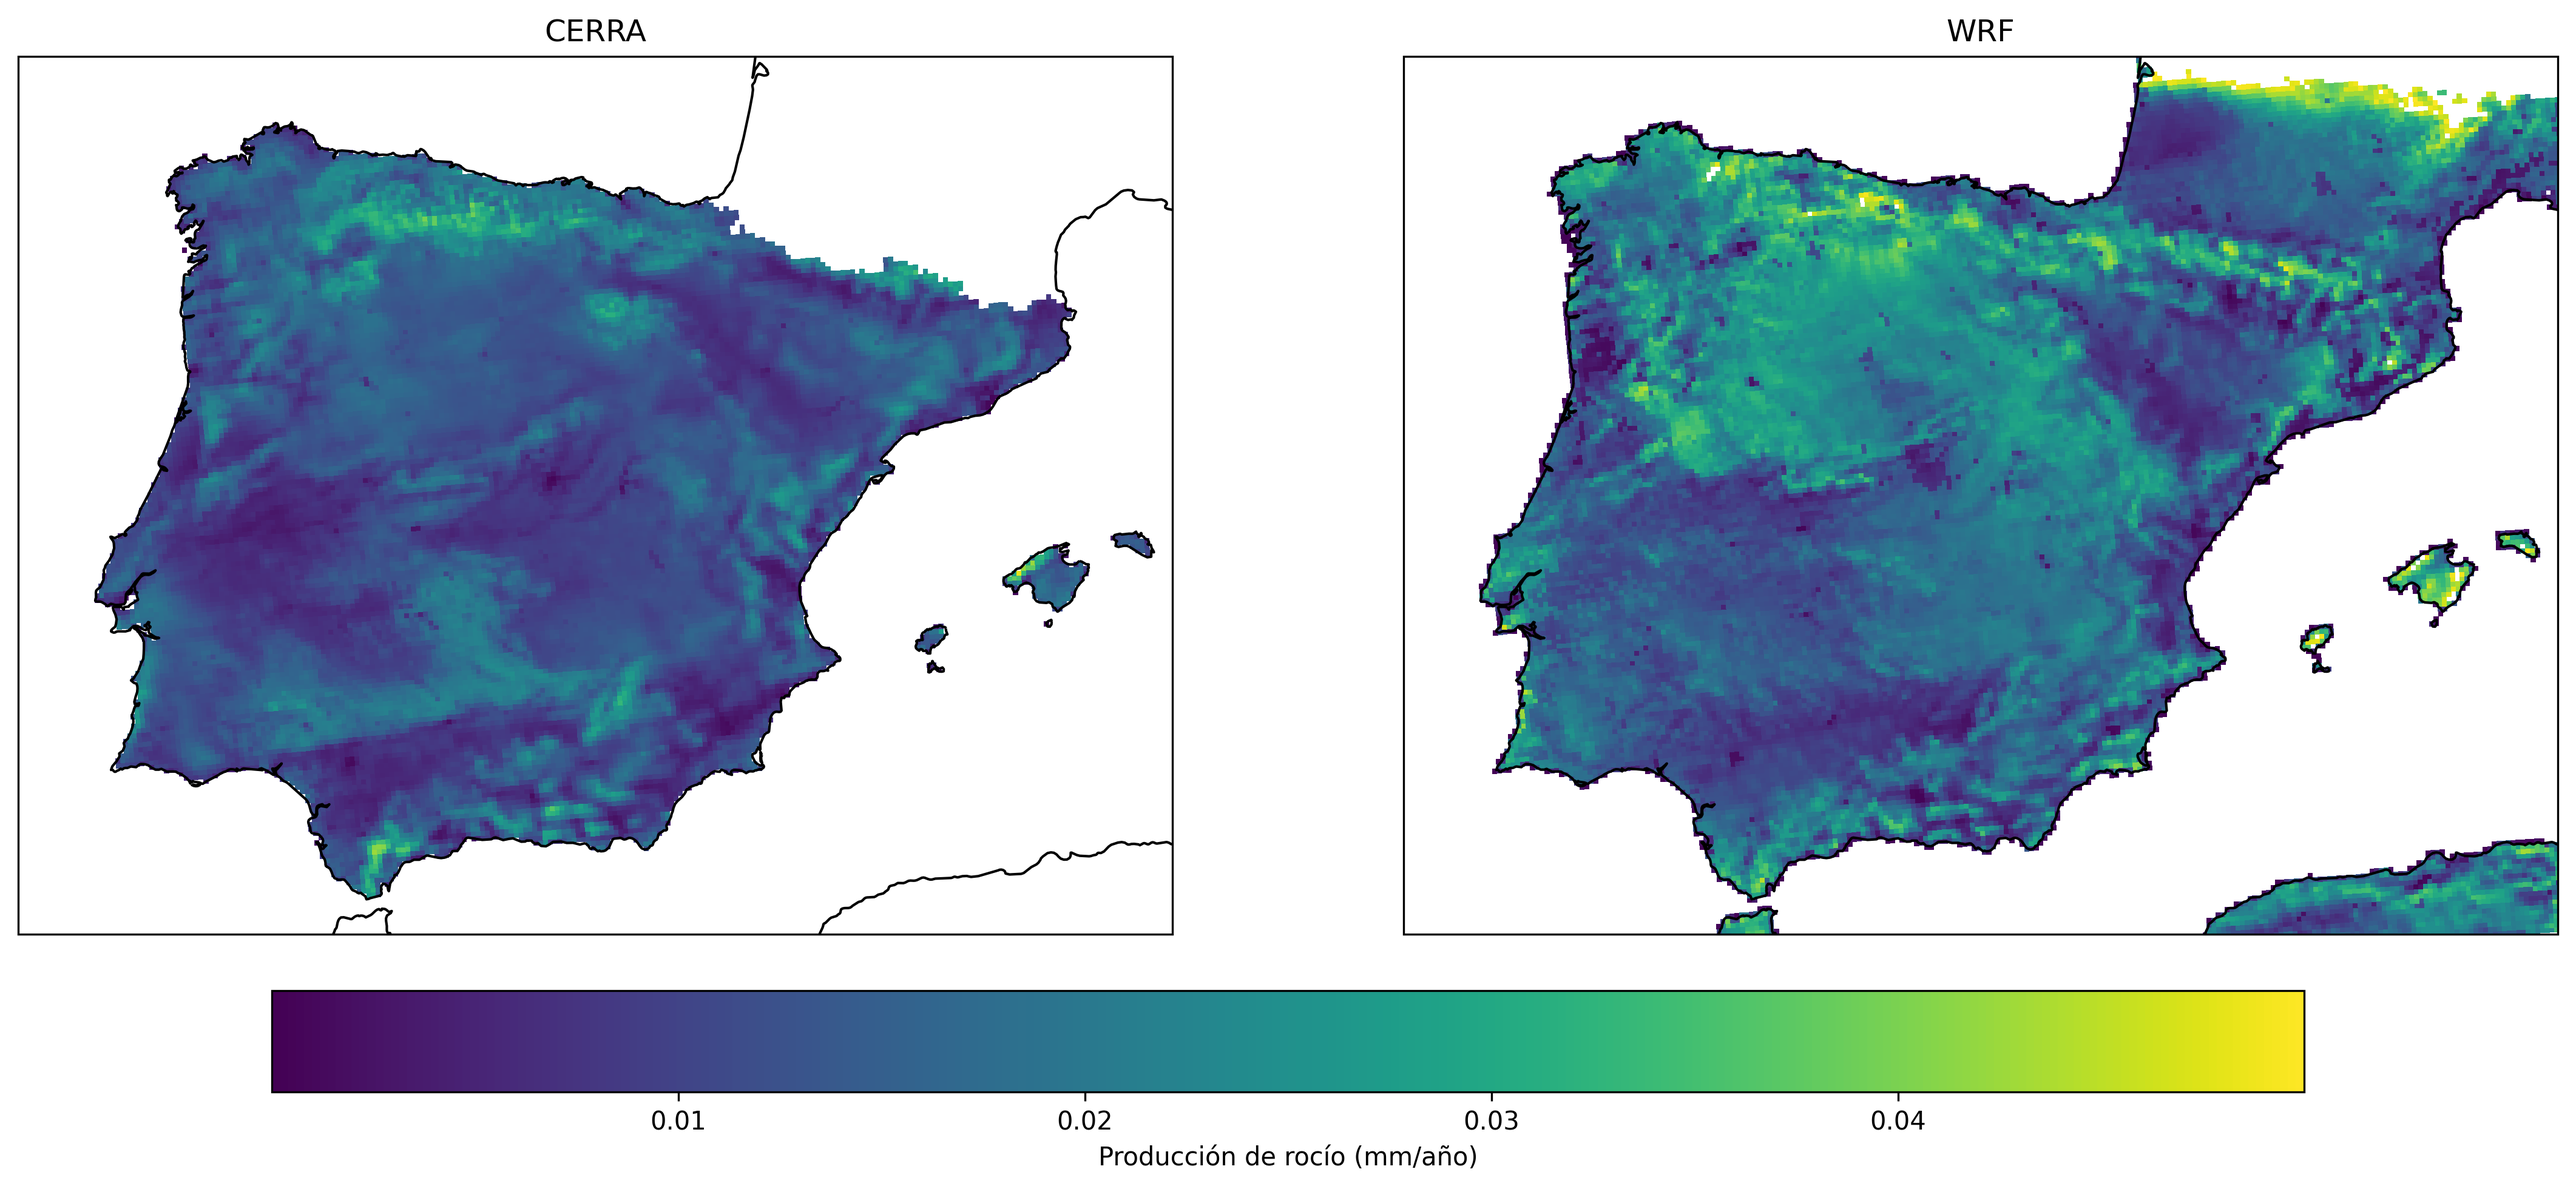
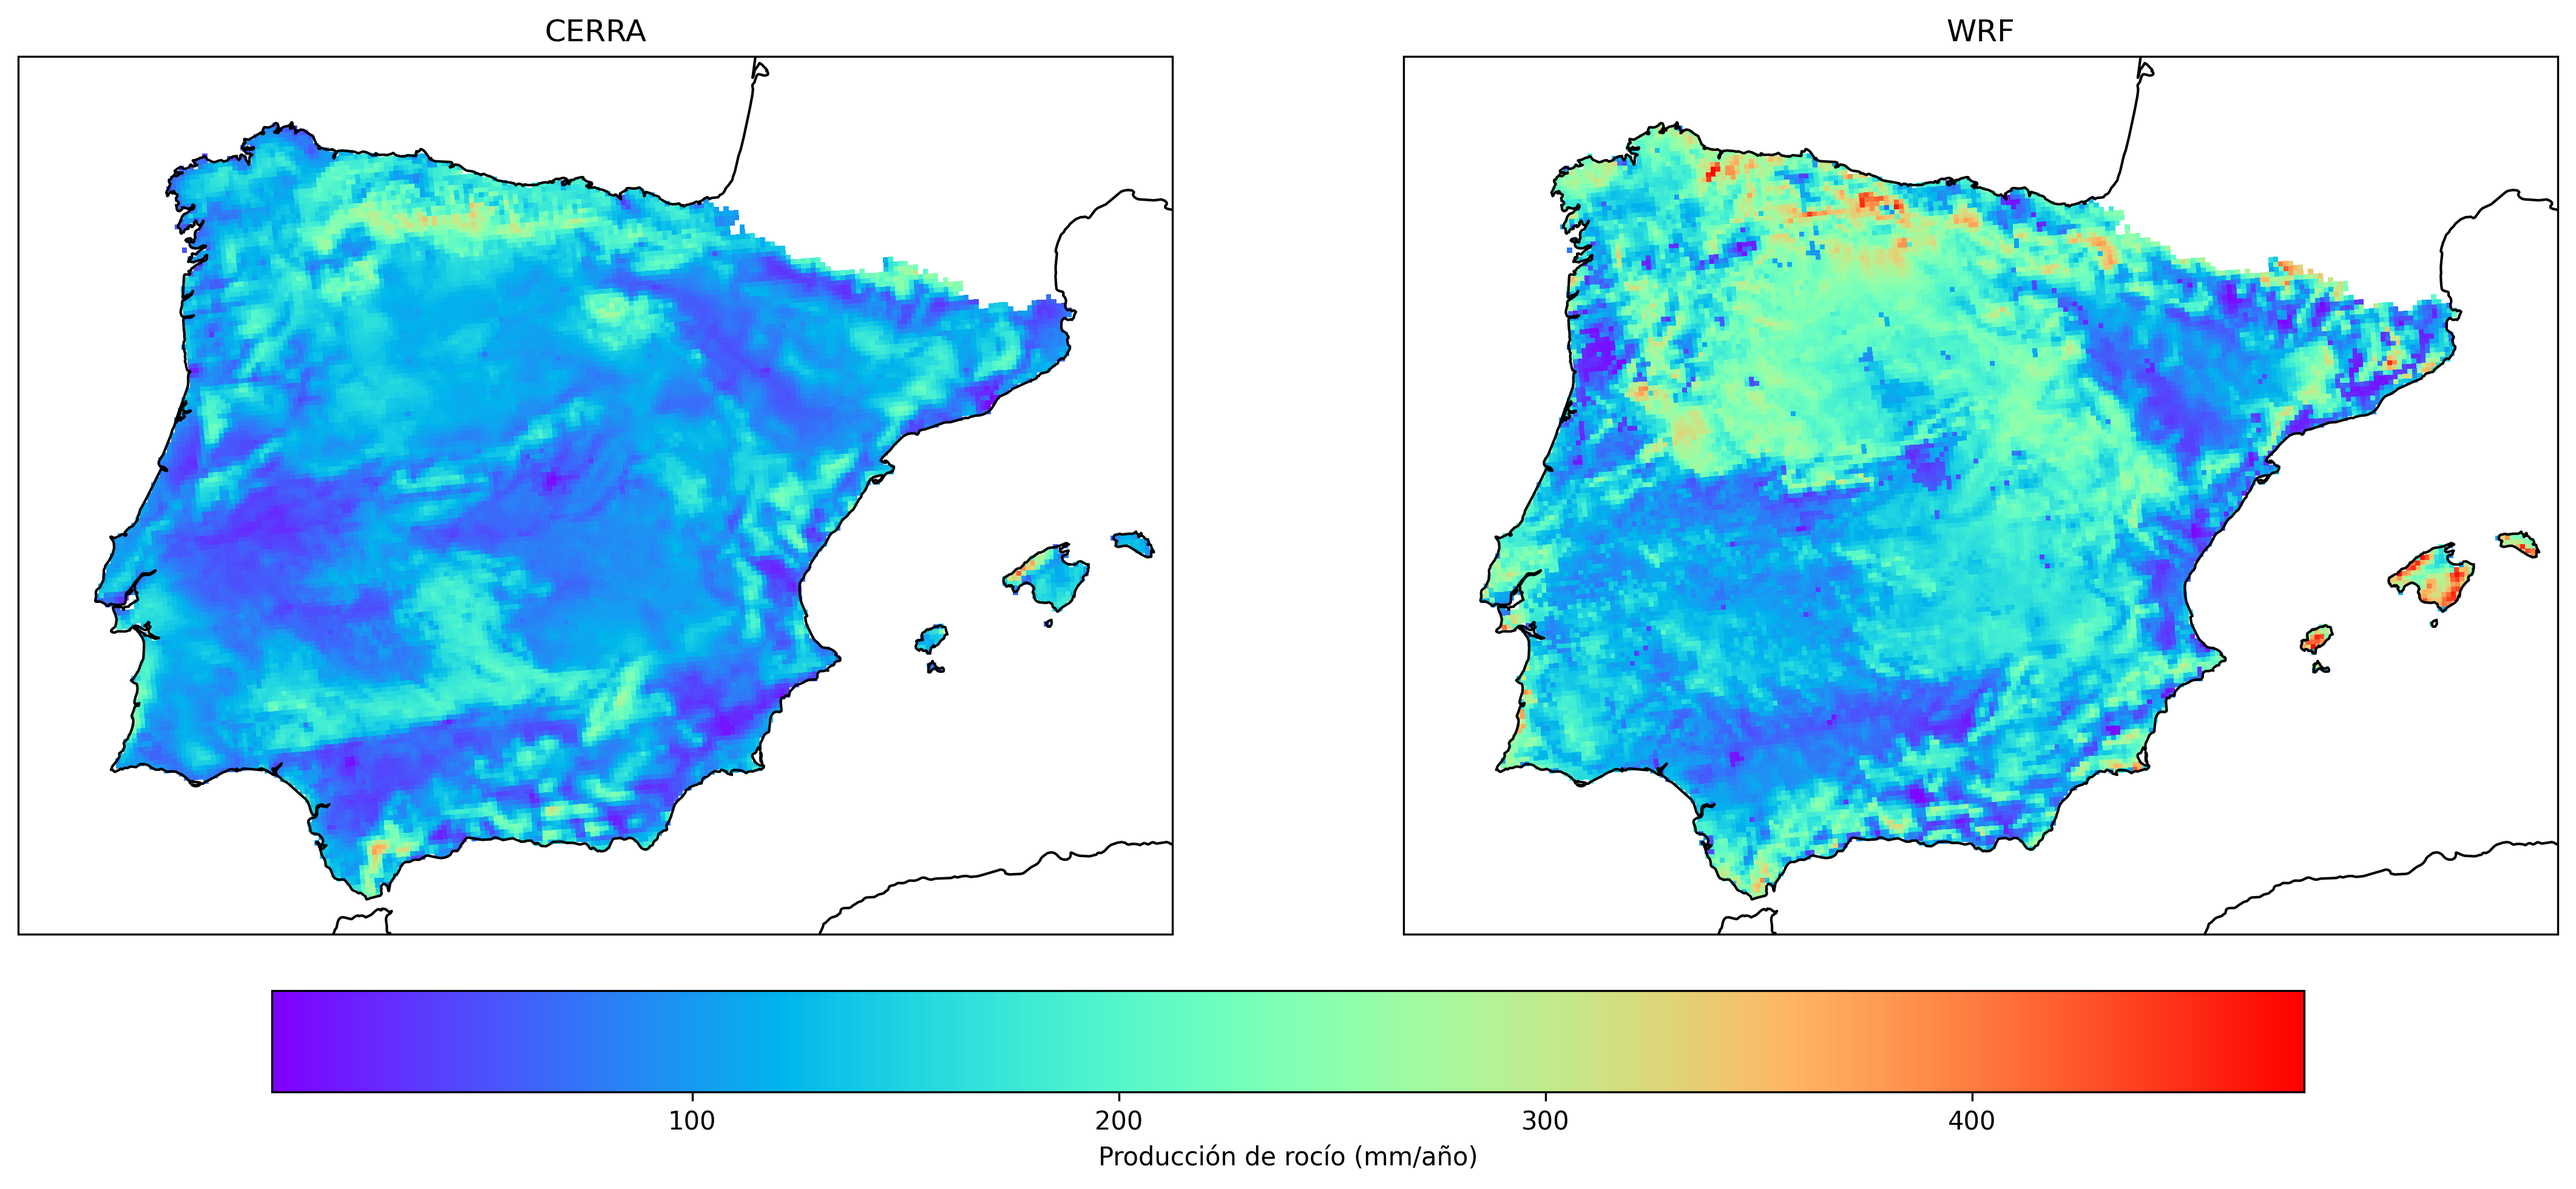
evaluation results

diff --git a/scripts/comp_test_mats.py b/scripts/comp_test_mats.py
@@ -61,52 +61,43 @@ cerraf=xr.open_dataset(fn)
 lons=cerraf.coords['longitude'].values
 lats=cerraf.coords['latitude'].values
 cerraf.close()
-
+lons=lons.transpose()
+lats=lats.transpose()
 #por si no está aplicada la máscara de tierra, la cargamos también
 land_mask = np.load("scripts\\data\\PI_landmask.npy") #cargamos la máscara de tierra
-land_mask = land_mask.transpose()  # Transponemos para que coincida con las dimensiones de latitudes y longitudes
-
-#Rutas y datos de los archivos a usar en el script
-fn1='scripts\\data\\CERRA\\CERRA_tcc_total.nc'
-fn2='scripts\\data\\WRF\\Evaluation\\cloudfrac_daymean_regrid.nc'
-selname1='tcc'
-selname2='CLDFRA'
 
 land_mask_apply=True #True para aplicar, False para no
 
 #nombres de los archivos de figuras y sus títulos y leyendas
-label_comp='Cobertura de nubes (Octas)' #leyenda comparación lado a lado
-title_comp='Media de la cobertura de nubes entre 1991 y 2020' #título comparación lado a lado
-out_name_comp='figures\\CERRA_WRF_tcc.png' #nombre del archivo de comparación
+label_comp='Producción de rocío (mm/año)' #leyenda comparación lado a lado
+title_comp='Media de la producción de rocío entre 1991 y 2020' #título comparación lado a lado
+out_name_comp='figures\\CERRA_WRF_dy.png' #nombre del archivo de comparación
 title1='CERRA' #título del primer gráfico
 title2='WRF' #título del segundo gráfico
 
-out_name_dif='CERRA_WRF_tcc_diff.png' #nombre del archivo de diferencias relativas
-out_name_pv='figures\\p_value_tcc.png' #nombre del archivo de p-value
+out_name_dif='CERRA_WRF_dy_diff_cut.png' #nombre del archivo de diferencias relativas
 
 #...........................PLOT DE COMPARACIÓN..........................
-#Cargamos los sets con datos diarios
-f1=xr.open_dataset(fn1)
-mod1=f1[selname1].values
-f1.close()
-f2=xr.open_dataset(fn2)
-mod2=f2[selname2].values
-f2.close()
-
-mod1=mod1*8/100
-mod2=mod2*8
-
-if land_mask_apply==True:
-    #Aplicamos la máscara de tierra a los datos
-    mod1 = mod1 * land_mask
-    mod2 = mod2 * land_mask
-
+f = h5py.File('scripts\\dewyield_results\\dewyield_CERRA_data.mat','r')
+data = f.get('daily_dewyield')
+mod1 = np.array(data)
+mod1=mod1*24*365
+f = h5py.File('scripts\\dewyield_results\\dewyield_WRF_Evaluation_data_regridded.mat','r')
+data = f.get('daily_dewyield')
+mod2 = np.array(data)
+mod2=mod2*24*365
 print('Datos cargados')
 
 #Realizamos las medias 
-mean1=np.nanmean(mod1, axis=0)
-mean2=np.nanmean(mod2, axis=0)
+if land_mask_apply==True:
+    mean1=np.nanmean(mod1, axis=2) * land_mask
+    mean2=np.nanmean(mod2, axis=2) * land_mask
+else:
+    mean1=np.nanmean(mod1, axis=2)
+    mean2=np.nanmean(mod2, axis=2)
 
+
+#mean2=np.where(mean2>600, np.nan, mean2)
 print('Medias calculadas')
 
 #Hacemos el plot
@@ -115,11 +106,11 @@ print('Plot de comparación realizado')
 #...........................................................................
 
 #...........................TEST U DE MANN WHITNEY..........................
-_, p_value = mannwhitneyu(mod1, mod2, alternative='two-sided', axis=0, nan_policy='omit')
+_, p_value = mannwhitneyu(mod1, mod2, alternative='two-sided', axis=2, nan_policy='omit')
 print('Test de Mann Whitney realizado')
 
 #Plot para revisar los valores de p-value en el mapa
-plot(lons, lats, p_value, 'p-value', 'viridis', out_name_pv)
+plot(lons, lats, p_value, 'p-value', 'viridis', 'figures\\p_value_dy.png')
 print('Plot de p-value realizado')
 
 #Realizamos una máscara para celdas donde las diferencias son significativas
@@ -134,7 +125,7 @@ print('Diferencias relativas calculadas')
 #Aplicamos la máscara de p-value
 dif_rel=dif_rel*p_value_mask
 
-dif_rel=np.where(dif_rel>600, np.nan, dif_rel)
+dif_rel=np.where(dif_rel>200, np.nan, dif_rel)
 
 #Plot de diferencias relativas
 label_difrel='Diferencia relativa (%)'

diff --git a/scripts/new_mask.py b/scripts/new_mask.py
@@ -1,0 +1,15 @@
+import numpy as np
+import h5py
+
+f = h5py.File('scripts\\dewyield_results\\dewyield_CERRA_data.mat','r')
+data = f.get('daily_dewyield')
+mod1 = np.array(data)
+mod1=mod1*24*365
+
+mean1=np.nanmean(mod1, axis=2)
+
+land_mask = np.where(mean1>0, 1, np.nan)  # Assuming land_mask is a binary mask where land is 1 and ocean is NaN
+
+print(land_mask.shape)  # Check the shape of the land mask
+
+np.save("scripts\\data\\PI_landmask.npy", land_mask)
